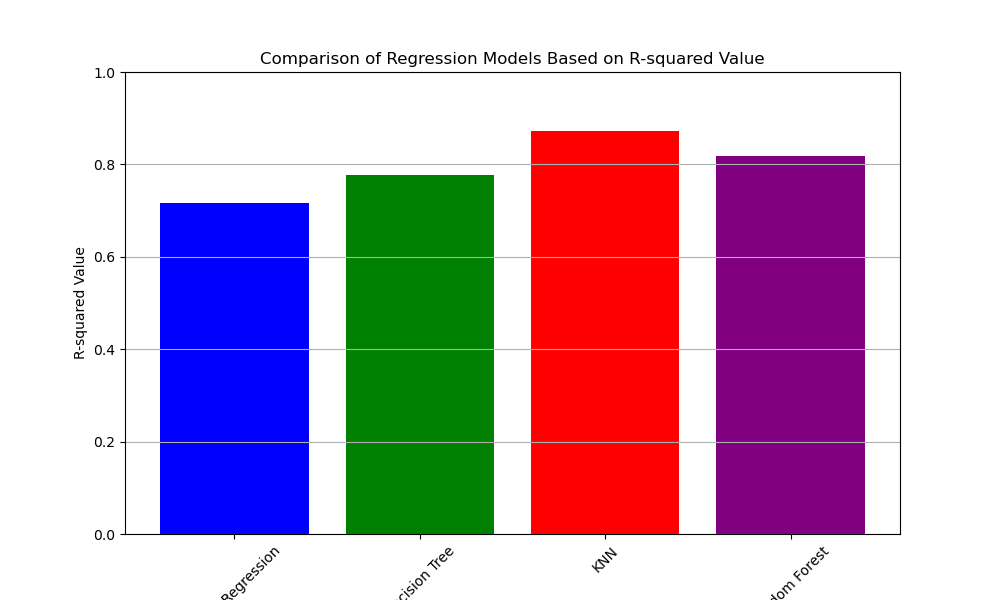
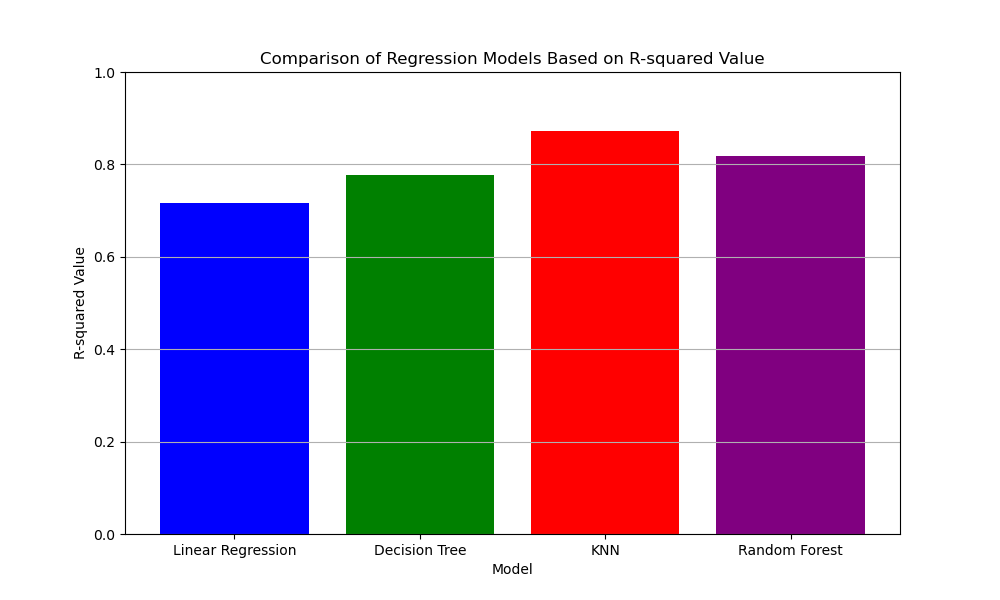
updated

diff --git a/visualization/relationship.py b/visualization/relationship.py
@@ -68,7 +68,6 @@ plt.xlabel('Model')
 plt.ylabel('R-squared Value')
 plt.title('Comparison of Regression Models Based on R-squared Value')
 plt.ylim(0, 1)
-plt.xticks(rotation=45)
 plt.grid(axis='y')
 plt.show()
 
@@ -78,6 +77,5 @@ plt.bar(models, rmse_values, color=['blue', 'green', 'red', 'purple'])
 plt.xlabel('Model')
 plt.ylabel('RMSE Value')
 plt.title('Comparison of Regression Models Based on RMSE Value')
-plt.xticks(rotation=45)
 plt.grid(axis='y')
 plt.show()
